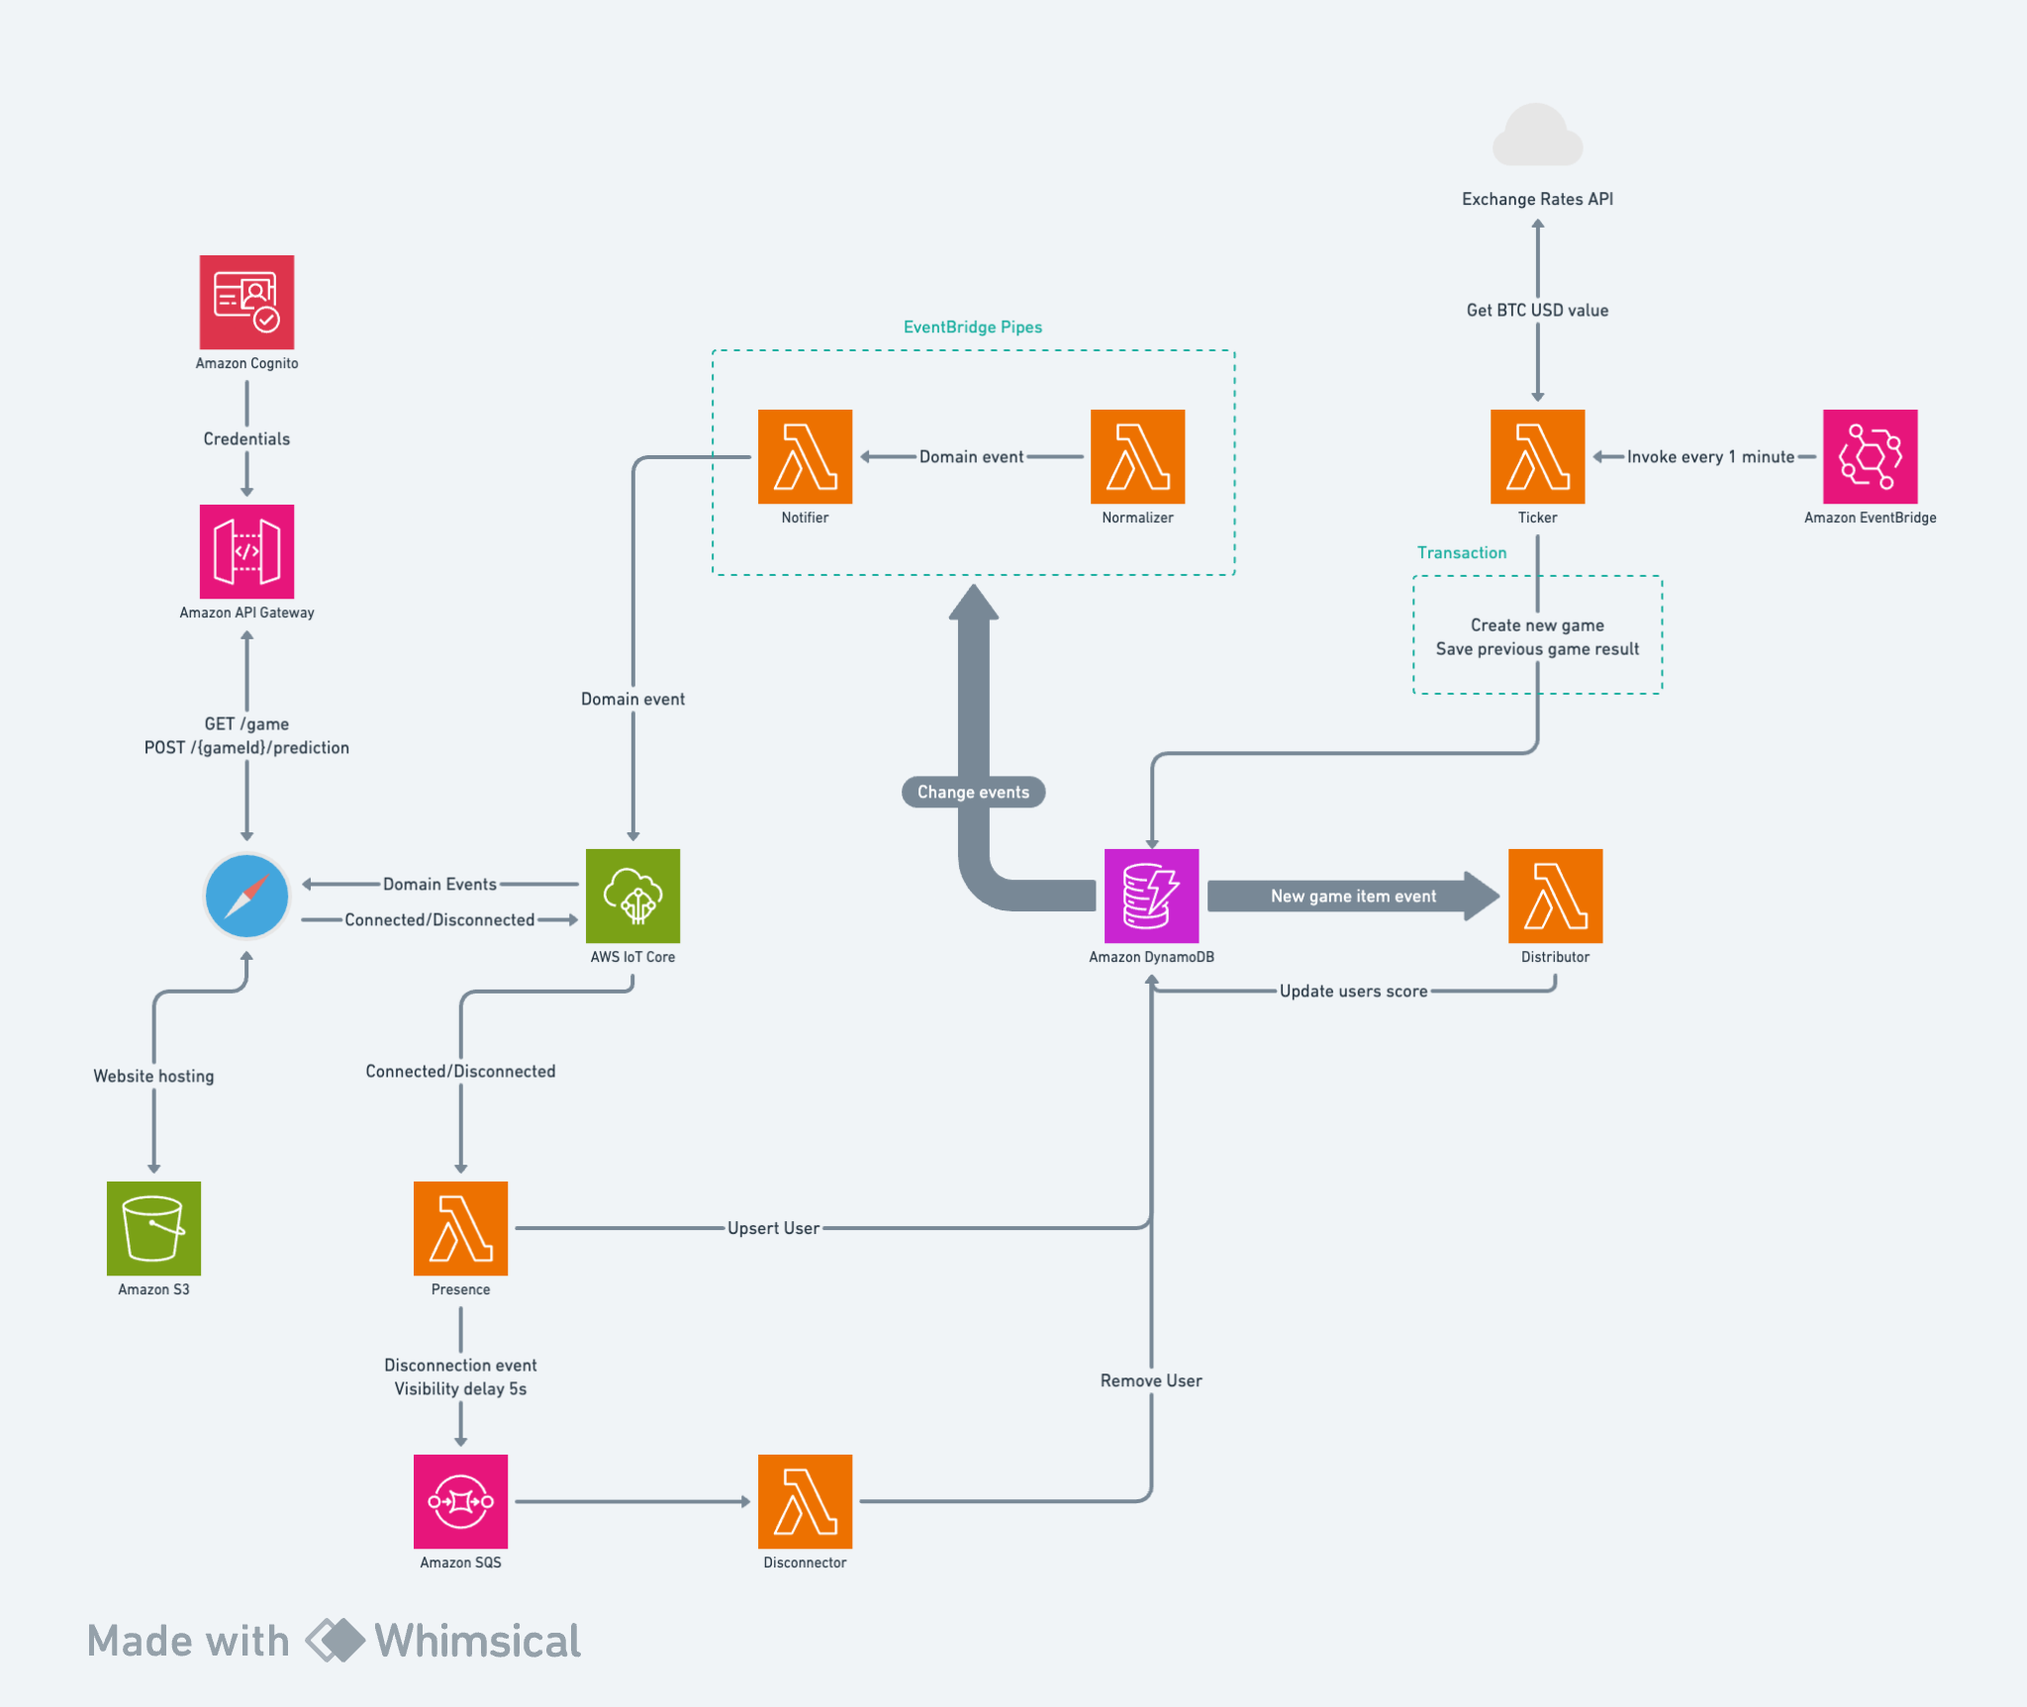
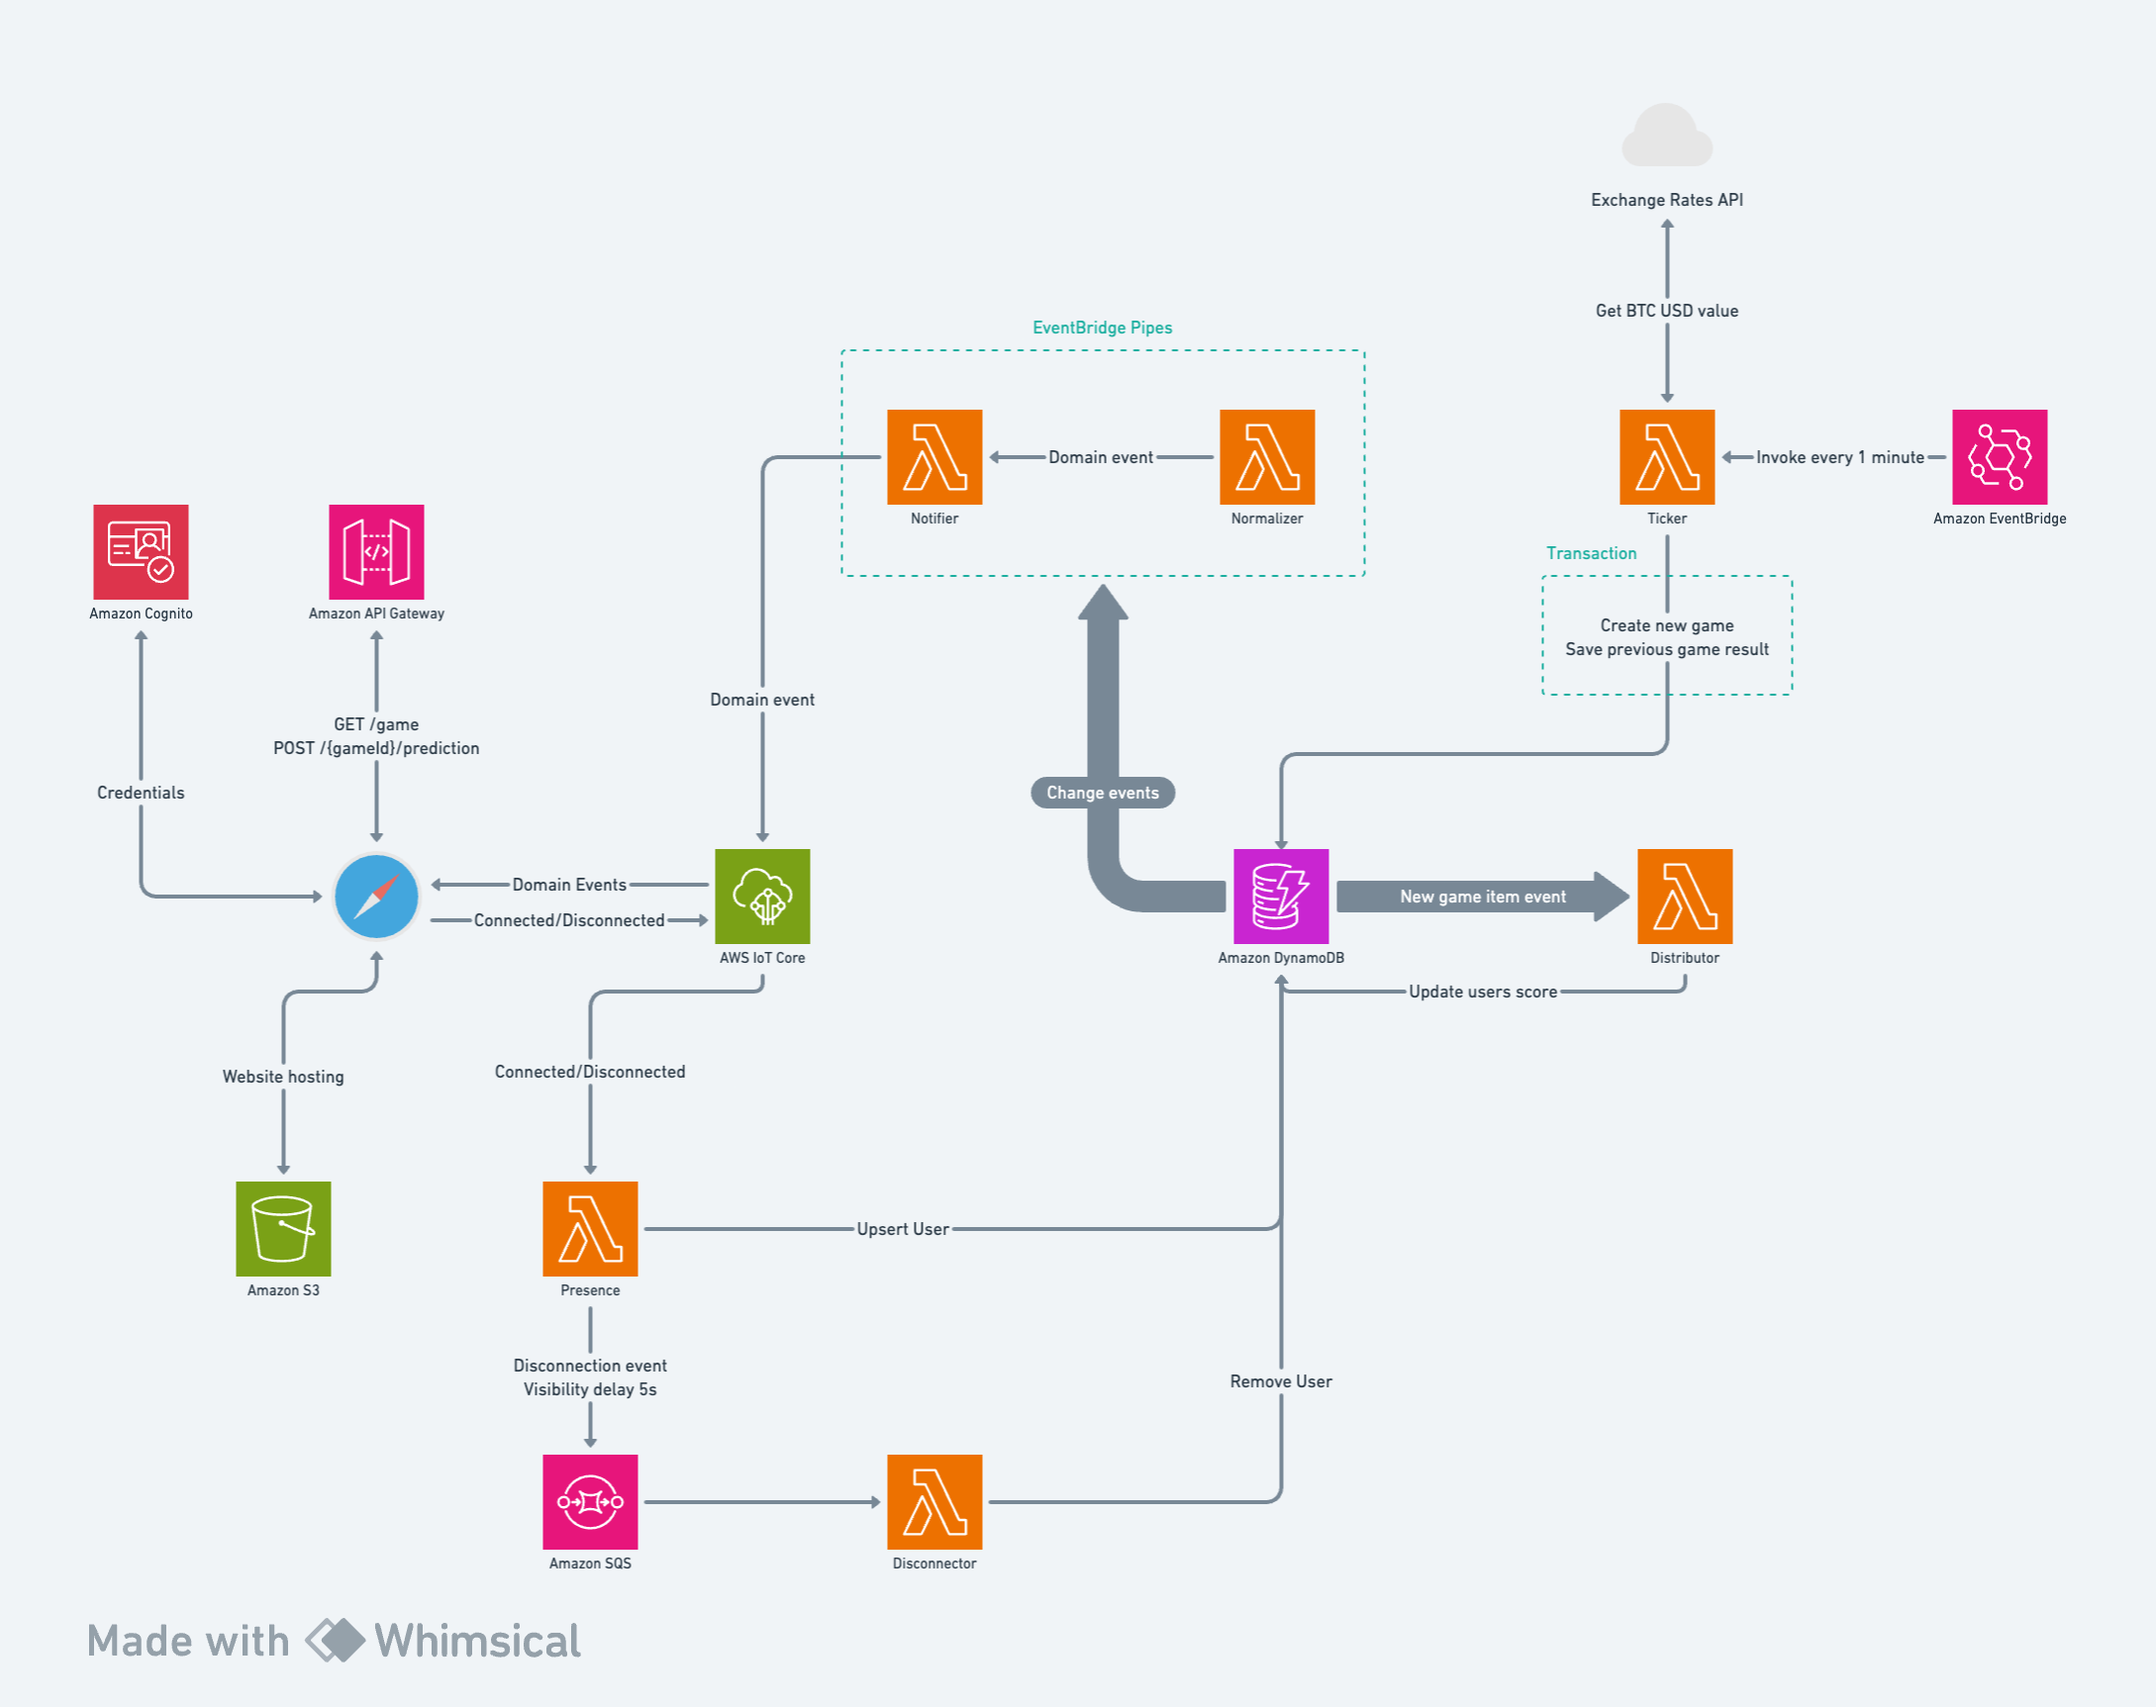
update readme

diff --git a/packages/backend/bin/stack.ts b/packages/backend/bin/stack.ts
@@ -429,18 +429,18 @@ class Api extends Construct {
     );
     props.dataTable.grantReadWriteData(predictFunction);
 
-    const stateFunction = new cdk.aws_lambda_nodejs.NodejsFunction(
+    const gameFunction = new cdk.aws_lambda_nodejs.NodejsFunction(
       this,
       "StateFunction",
       {
         handler: "handler",
-        entry: join(__dirname, "../functions/api/state.handler.ts"),
+        entry: join(__dirname, "../functions/api/game.handler.ts"),
         environment: {
           DATA_TABLE_NAME: props.dataTable.tableName,
         },
       }
     );
-    props.dataTable.grantReadData(stateFunction);
+    props.dataTable.grantReadData(gameFunction);
 
     const api = new cdk.aws_apigateway.RestApi(this, "Api", {
       defaultCorsPreflightOptions: {
@@ -453,7 +453,7 @@ class Api extends Construct {
     const gameResource = api.root.addResource("game");
     gameResource.addMethod(
       "GET",
-      new cdk.aws_apigateway.LambdaIntegration(stateFunction)
+      new cdk.aws_apigateway.LambdaIntegration(gameFunction)
     );
     new cdk.CfnOutput(this, "GameEndpointUrl", {
       value: api.urlForPath(gameResource.path),

diff --git a/README.md b/README.md
@@ -102,6 +102,49 @@ This component utilizes [EventBridge Pipes](https://docs.aws.amazon.com/eventbri
 
 ![notifier diagram](./docs/notifier.png)
 
+### The API
+
+This component exposes a REST interface to the frontend application.
+
+The `GET /game` returns the information about the game, as well as the connected players and the predictions they have made regarding the next BTC price.
+Here is how the response shape looks like:
+
+```ts
+{
+    game: {
+        id: string;
+        value: number;
+        room: string;
+        createdAtMs: number;
+    },
+    users: {
+        id: string;
+        status: "CONNECTED" | "DISCONNECTED";
+        name: string;
+        score: number;
+        prediction: "UP" | "DOWN" | null;
+    }[]
+}
+```
+
+The `POST /{gameId}/predict` is responsible for saving the users predictions regarding the next BTC price.
+Here is how the payload looks like:
+
+```ts
+{
+    prediction: "UP" | "DOWN",
+    userId: string
+}
+```
+
+And here is how the response looks like:
+
+```ts
+{}
+```
+
+![API diagram](./docs/api.png)
+
 ## Possible improvements
 
 1. Surface the concept of "game rooms" to the client. The concept of a "game room" is only used on the backend for the purpose of making the testing easier. It enables the creation of isolated data entities which do not influence the running application.
